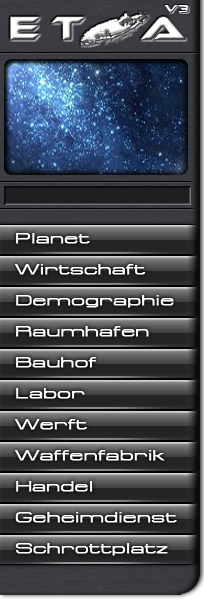
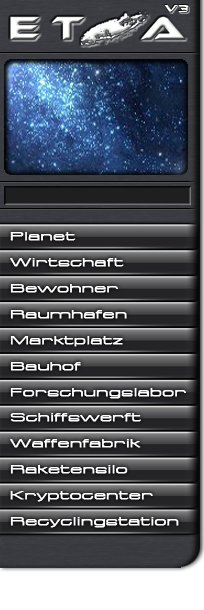
- Graphite design changed: new nav button for missile silo, smaller buttons, changed button titles
git-svn-id: https://devel.etoa.net/svn/etoa-gui/trunk@810 9ddb851b-07ab-4ff2-becd-2ceea2d3057d

diff --git a/designs/Graphite/style.css b/designs/Graphite/style.css
@@ -166,41 +166,44 @@ img	{
 #navcontainer a	{
 	display:block;
 	width:194px;
-	height:31px;
+	height:26px;
 }
 
 #navplanetoverview:hover	{
 	background:url('images/sidebarh.png') 0px -223px no-repeat;
 }
 #naveconomy:hover	{
-	background:url('images/sidebarh.png') 0px -254px no-repeat;
+	background:url('images/sidebarh.png') 0px -249px no-repeat;
 }
 #navpopulation:hover	{
-	background:url('images/sidebarh.png') 0px -285px no-repeat;
+	background:url('images/sidebarh.png') 0px -275px no-repeat;
 }
 #navhaven:hover	{
-	background:url('images/sidebarh.png') 0px -316px no-repeat;
-}
-#navbuildings:hover	{
-	background:url('images/sidebarh.png') 0px -347px no-repeat;
-}
-#navresearch:hover	{
-	background:url('images/sidebarh.png') 0px -378px no-repeat;
-}
-#navshipyard:hover	{
-	background:url('images/sidebarh.png') 0px -409px no-repeat;
-}
-#navdefense:hover	{
-	background:url('images/sidebarh.png') 0px -440px no-repeat;
+	background:url('images/sidebarh.png') 0px -301px no-repeat;
 }
 #navmarket:hover	{
-	background:url('images/sidebarh.png') 0px -471px no-repeat;
+	background:url('images/sidebarh.png') 0px -327px no-repeat;
+}
+#navbuildings:hover	{
+	background:url('images/sidebarh.png') 0px -353px no-repeat;
+}
+#navresearch:hover	{
+	background:url('images/sidebarh.png') 0px -379px no-repeat;
+}
+#navshipyard:hover	{
+	background:url('images/sidebarh.png') 0px -405px no-repeat;
+}
+#navdefense:hover	{
+	background:url('images/sidebarh.png') 0px -431px no-repeat;
+}navmissiles
+#navmissiles:hover	{
+	background:url('images/sidebarh.png') 0px -457px no-repeat;
 }
 #navcrypto:hover	{
-	background:url('images/sidebarh.png') 0px -502px no-repeat;
+	background:url('images/sidebarh.png') 0px -483px no-repeat;
 }
 #navrecycle:hover	{
-	background:url('images/sidebarh.png') 0px -533px no-repeat;
+	background:url('images/sidebarh.png') 0px -509px no-repeat;
 }
 
 #hbar	{
